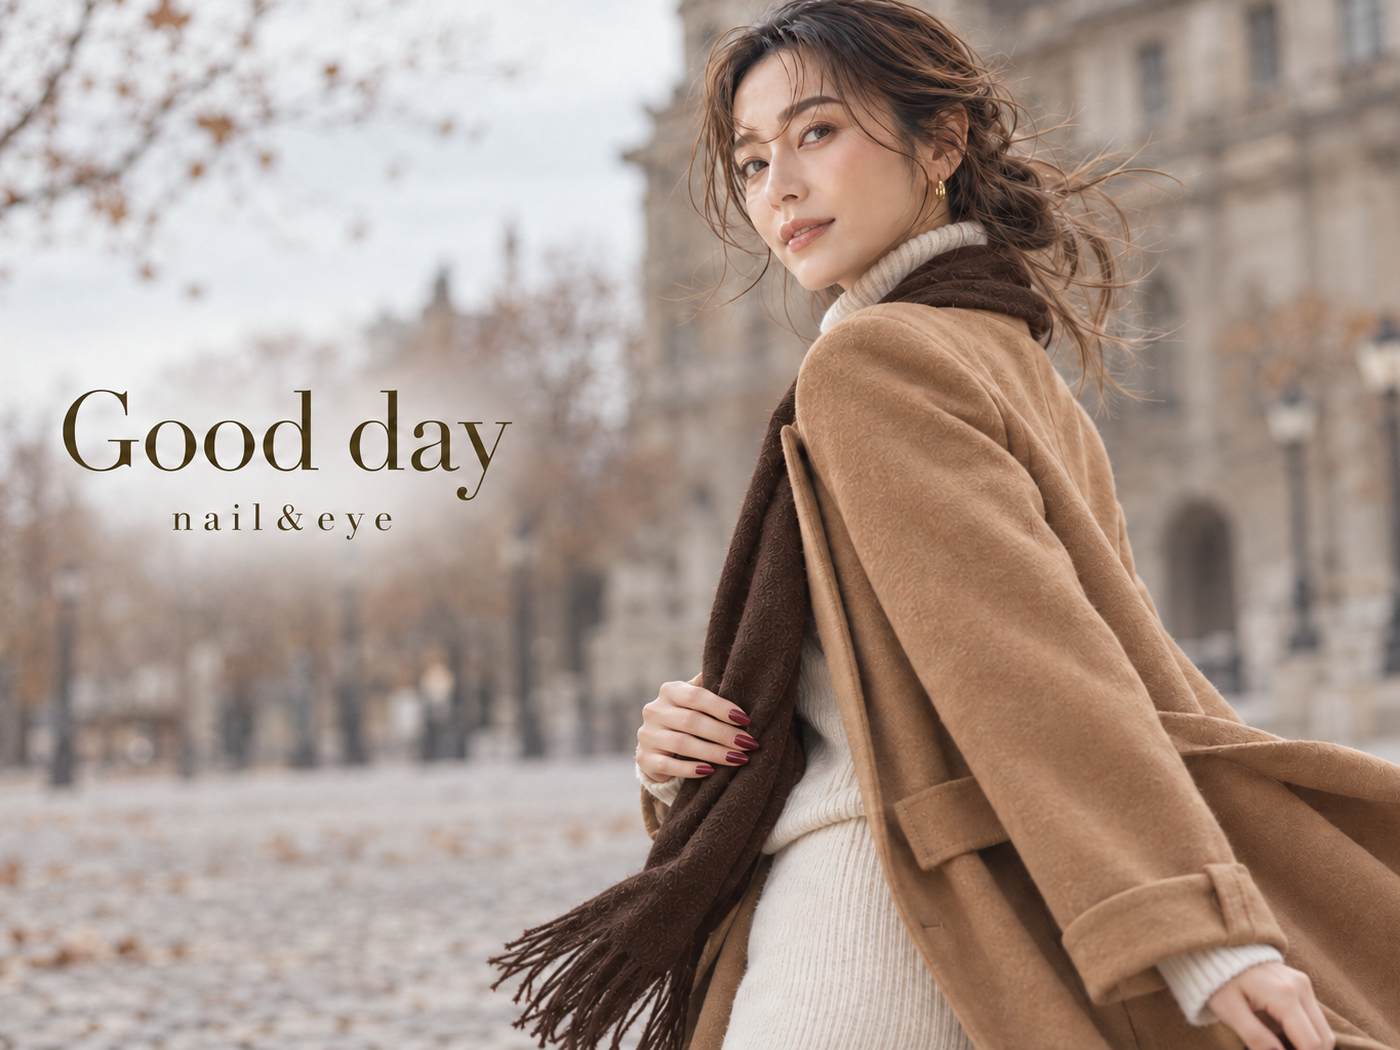
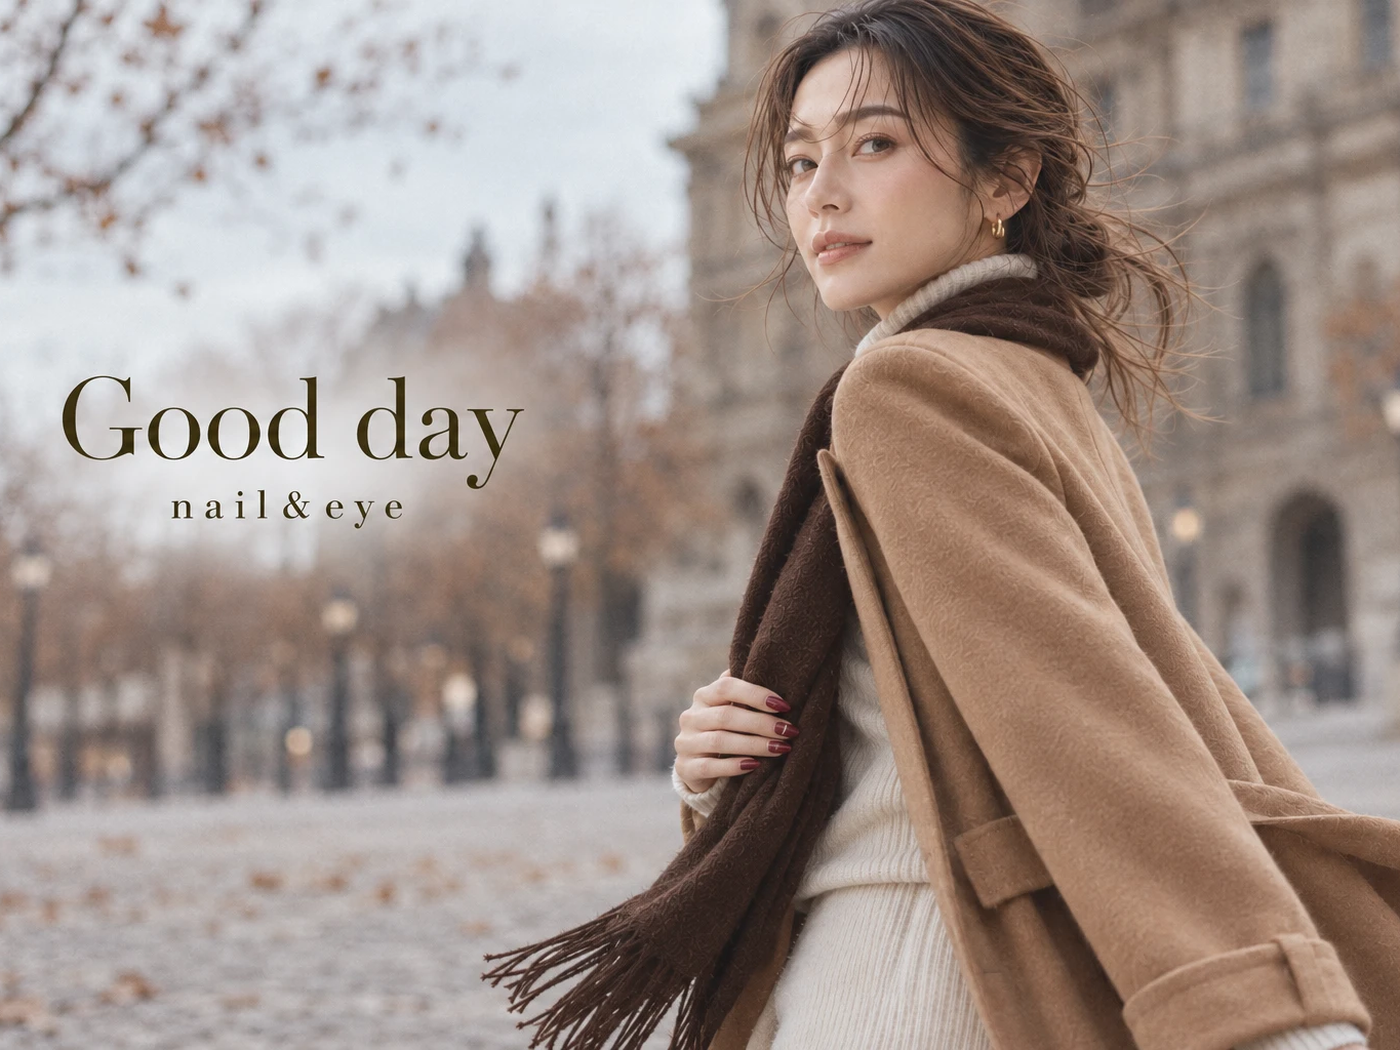
Adopt final November key visual with natural overcast lighting

diff --git a/index.html b/index.html
@@ -110,7 +110,7 @@
     <div class="grid wide">
       <figure>
         <img src="2026-11/01_hero/hero.png" alt="キービジュアル確定版">
-        <figcaption>確定版：石畳の広場で肩越しに振り返る・キャメルのコートとチョコレートブラウンのストール（作り直し3回目A案）</figcaption>
+        <figcaption>確定版：石畳の広場で肩越しに振り返る・キャメルのコートとチョコレートブラウンのストール（曇り光で人物と背景をなじませた最終版）</figcaption>
       </figure>
     </div>
   </section>
